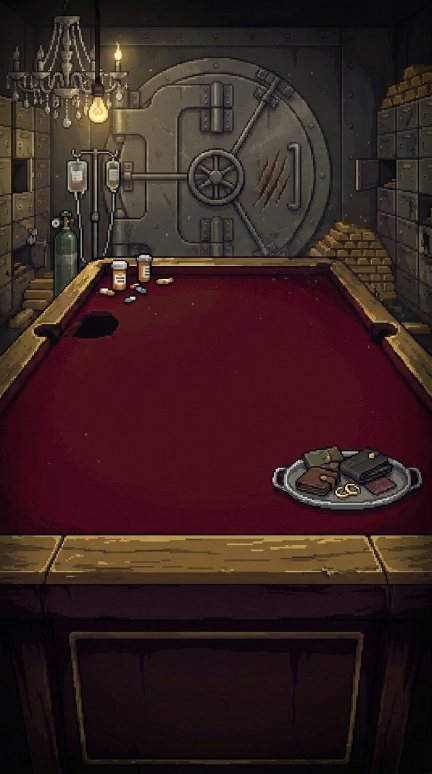
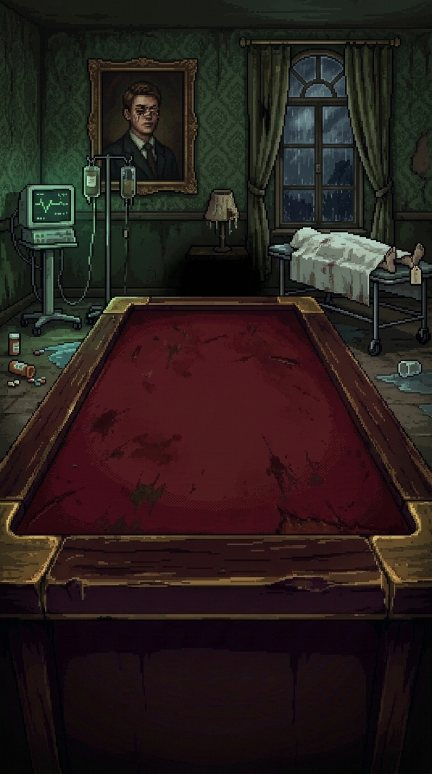
Dirty Deal: new Debt Cellar and Private Ward arenas, bigger rat
Claude-Session: https://claude.ai/code/session_01KMoF4bVcjiTSZnB8k8vwUa

diff --git a/dirtydeal/index.html b/dirtydeal/index.html
@@ -84,6 +84,15 @@ button{font-family:var(--display);cursor:pointer;background:none;border:0;paddin
 .lamp img{width:100%;height:100%;object-fit:contain;object-position:50% 0;image-rendering:pixelated;display:block}
 .lamp i{position:absolute;left:50%;top:80%;width:520%;aspect-ratio:1;translate:-50% -50%;background:radial-gradient(circle,rgba(255,220,140,.5),rgba(255,190,100,.14) 30%,transparent 62%);mix-blend-mode:screen;animation:bulb 5.3s infinite steps(1)}
 @keyframes lampsw{from{rotate:-7deg}to{rotate:6deg}}
+.tube{width:42%;height:7%;translate:-50% -50%;background:radial-gradient(ellipse,rgba(220,255,235,.6),rgba(180,240,210,.2) 40%,transparent 70%);mix-blend-mode:screen;animation:tube 4.3s infinite steps(1)}
+@keyframes tube{0%{opacity:1}12%{opacity:.4}13%{opacity:1}41%{opacity:.15}42%{opacity:.9}43%{opacity:.1}45%{opacity:1}77%{opacity:.6}78%{opacity:1}}
+.shade{width:14%;height:20%;translate:-50% -50%;background:radial-gradient(ellipse,rgba(0,0,0,.75),transparent 65%);animation:shade 7s ease-in-out infinite}
+@keyframes shade{0%,100%{transform:translate(0,0);opacity:.4}30%{transform:translate(-8%,4%);opacity:.9}60%{transform:translate(6%,-3%);opacity:.6}}
+.ecg{width:10.6%;height:3.2%;overflow:hidden;background:rgba(0,40,10,.35)}
+.ecg svg{width:200%;height:100%;display:block;animation:ecg 1.6s linear infinite;filter:drop-shadow(0 0 2px #7dff9a)}
+@keyframes ecg{from{transform:translateX(0)}to{transform:translateX(-50%)}}
+.winrain{width:20%;height:17.8%;opacity:.45;background:repeating-linear-gradient(100deg,transparent 0 7px,rgba(190,210,235,.4) 7px 8px,transparent 8px 19px);background-size:100% 40px;animation:rain .4s linear infinite}
+.winflash{width:20%;height:17.8%;background:rgba(220,230,255,.85);mix-blend-mode:screen;opacity:0;animation:bolt 11s infinite steps(1)}
 .eyes{width:1.8%;height:.5%;display:flex;justify-content:space-between;animation:eyes 7s infinite steps(1)}
 .eyes::before,.eyes::after{content:"";width:28%;height:100%;background:#ff3020;box-shadow:0 0 4px 1px rgba(255,40,20,.8)}
 @keyframes eyes{0%{opacity:1}31%{opacity:0}33%{opacity:1}60%{opacity:1}61%{opacity:0}80%{opacity:0}81%{opacity:1}}
@@ -133,9 +142,9 @@ button{font-family:var(--display);cursor:pointer;background:none;border:0;paddin
 .r0.c0{left:var(--r0a)}.r0.c1{left:var(--r0b)}.r0.c2{left:var(--r0c)}
 .stage:not(.a1) .smoke{display:none}
 #rain,#bolt{position:absolute;inset:0;pointer-events:none;display:none}
-.a3 #rain{display:block;z-index:3;opacity:.5;background:repeating-linear-gradient(105deg,transparent 0 9px,rgba(190,210,235,.35) 9px 10px,transparent 10px 23px);background-size:100% 46px;animation:rain .35s linear infinite}
+.a3 #rain{display:none;z-index:3;opacity:.5;background:repeating-linear-gradient(105deg,transparent 0 9px,rgba(190,210,235,.35) 9px 10px,transparent 10px 23px);background-size:100% 46px;animation:rain .35s linear infinite}
 @keyframes rain{to{background-position:-12px 46px}}
-.a3 #bolt{display:block;z-index:4;background:rgba(220,230,255,.9);mix-blend-mode:screen;opacity:0;animation:bolt 9s infinite steps(1)}
+.a3 #bolt{display:block;z-index:4;background:rgba(200,255,225,.55);mix-blend-mode:screen;opacity:0;animation:bolt 9s infinite steps(1)}
 @keyframes bolt{0%{opacity:0}61%{opacity:.55}62%{opacity:0}63%{opacity:.35}64%{opacity:0}}
 #bolt.now{animation:boltnow .5s steps(1)}
 @keyframes boltnow{0%{opacity:.9}20%{opacity:0}40%{opacity:.7}60%{opacity:0}}
@@ -606,8 +615,8 @@ $('edit').onclick=()=>{$('endScreen').hidden=true;openMenu(2)};
 const ARENAS=[
  {t:0,n:'THE BACK ROOM',who:'The Dealer',pre:'dealer',bg:'table.jpg',tw:'',g:{tilt:38,shift:0,r1w:18,r1t:35,r1:[20.8,41,61.2],r0w:21.5,r0t:47.5,r0:[13.9,39.25,64.6],dt:12.6,dh:23.8,gl:[22.1,13.8]}},
  {t:100,n:'THE DRAIN',who:'The Croc',pre:'d2_',bg:'table2.jpg',tw:'Poison lasts 1 turn longer down here.',g:{tilt:38,shift:0,r1w:18,r1t:35,r1:[20.8,41,61.2],r0w:21.5,r0t:47.5,r0:[13.9,39.25,64.6],dt:12.4,dh:23.8,gl:[14,24]}},
- {t:250,n:'THE ROOFTOP',who:'The Collector',pre:'d3_',bg:'table3.jpg',tw:'Lightning may strike a random card for 3.',g:{tilt:52,shift:-4.8,r1w:15.5,r1t:42.37,r1:[25.58,42.81,60.03],r0w:19,r0t:50.08,r0:[19.72,41.56,63.41],dt:25.8,dh:18.4,gl:[15,16.3]}},
- {t:500,n:'THE VAULT',who:'The Owner',pre:'d4_',bg:'table4.jpg',tw:"The Owner's cards start with +1 shield.",g:{tilt:38,shift:0,r1w:18,r1t:35.23,r1:[21,41.77,62.54],r0w:21.5,r0t:47.78,r0:[13.23,39.61,65.98],dt:14.4,dh:21.2,gl:[22.8,14.2]}}];
+ {t:250,n:'THE DEBT CELLAR',who:'The Collector',pre:'d3_',bg:'table3.jpg',tw:'The light shorts out: a random card may take 3.',g:{tilt:38,shift:0,r1w:18,r1t:35,r1:[20.8,41,61.2],r0w:21.5,r0t:47.5,r0:[13.9,39.25,64.6],dt:11.6,dh:24.6,gl:[50,8]}},
+ {t:500,n:'THE PRIVATE WARD',who:'The Owner',pre:'d4_',bg:'table4.jpg',tw:"The Owner's cards start with +1 shield.",g:{tilt:44,shift:0,r1w:14,r1t:39.4,r1:[27.9,43,58.1],r0w:18,r0t:50.2,r0:[21.2,41,60.8],dt:20,dh:22,gl:[51,24]}}];
 let TILT=38;
 function applyArena(k){
   const A=ARENAS[k],g=A.g,st=$('stage');
@@ -931,9 +940,9 @@ const AMB=(()=>{
     k.push({left:(dir>0?108:-12)+'%',top:y1+'%'});
     e.animate(k,{duration:dur,easing:'linear'}).finished.then(()=>e.remove()).catch(()=>e.remove())}
   async function ratRun(){
-    const dir=Math.random()<.5?1:-1,e=el('spr',dir>0?-14:104,59.6);e.style.width='12%';e.style.position='absolute';e.style.zIndex=2;e.style.pointerEvents='none';$('stage').appendChild(e);e.style.aspectRatio='1';e.style.backgroundImage='url(assets/a_rat.png)';e.style.setProperty('--fd','.2s');
+    const dir=Math.random()<.5?1:-1,e=el('spr',dir>0?-18:104,57.2);e.style.width='17%';e.style.position='absolute';e.style.zIndex=2;e.style.pointerEvents='none';$('stage').appendChild(e);e.style.aspectRatio='1';e.style.backgroundImage='url(assets/a_rat.png)';e.style.setProperty('--fd','.2s');
     if(dir<0)e.style.transform='scaleX(-1)';
-    const X=v=>dir>0?v:90-v;let x=-14;
+    const X=v=>dir>0?v:86-v;let x=-18;
     const dash=(to,ms)=>{const a=e.animate([{left:X(x)+'%'},{left:X(to)+'%'}],{duration:ms,easing:'cubic-bezier(.3,0,.6,1)',fill:'forwards'});x=to;e.style.animationPlayState='running';return a.finished};
     const freeze=async ms=>{e.style.animationPlayState='paused';const t0=performance.now();
       while(performance.now()-t0<ms){e.style.backgroundPosition=Math.random()<.5?'33.333% 0':'0 0';e.style.rotate=(Math.random()-.5)*4+'deg';await new Promise(r=>setTimeout(r,90+Math.random()*80))}e.style.rotate='0deg'};
@@ -952,13 +961,15 @@ const AMB=(()=>{
       const src=[[38,10,30.5],[63,10,30],[93,14,37.5],[3,20,36]];
       every(1600,()=>{const s=src[Math.floor(Math.random()*src.length)];drip(s[0],s[1],s[2],true)},1600);
       every(3200,()=>ripple(Math.random()<.5?4+Math.random()*10:86+Math.random()*10,33.5+Math.random()*4,true),2600)}
-    if(k===2){el('neonA',82.6,9.6);
-      const pud=[[10,60],[54,50.5],[80,47],[93,63],[30,92],[72,90]];
-      every(140,()=>{const p=pud[Math.floor(Math.random()*pud.length)];splash(p[0]+(Math.random()-.5)*6,p[1]+(Math.random()-.5)*2)},120);
-      every(11000,()=>runner('a_paper',10,36+Math.random()*6,30+Math.random()*12,4200,'.5s',-1,true),8000)}
-    if(k===3){el('candle',27.5,6);el('candle',13.5,9).style.animationDelay='-.8s';
+    if(k===2){el('tube',50,6.2);flies(50,7.5,2,22);
+      const cg=[[6,33],[94,32]];cg.forEach((c,n)=>{const e=el('shade',c[0],c[1]);e.style.animationDelay=(-n*2.3)+'s'});
+      every(5200,()=>{const f=$('flick');f.animate([{opacity:0},{opacity:.9},{opacity:.1},{opacity:.95},{opacity:0}],{duration:520,easing:'steps(5)'})},6000);
+      every(1900,()=>drip(37+Math.random()*30,8,30+Math.random()*4,false),1800)}
+    if(k===3){el('ecg',5.6,24.6,'<svg viewBox="0 0 100 30" preserveAspectRatio="none"><polyline points="0,18 18,18 24,18 28,6 32,27 36,18 52,18 58,15 62,18 100,18" fill="none" stroke="#7dff9a" stroke-width="2.4"/></svg>');
+      el('winrain',64,8.8);el('winflash',64,8.8);
+      el('candle',51,23.6).style.width='9%';
       every(260,mote,200);
-      every(1700,()=>{drip(16.2,25.2,30,false);setTimeout(()=>drip(24.8,25.6,30.5,false),600)},500);
+      every(1700,()=>{drip(20.6,24.8,28.5,false);setTimeout(()=>drip(29,26.4,30,false),600)},500);
       every(9000,()=>{const d=$('dealer');d.animate([{translate:'0 0'},{translate:'-1px 1px'},{translate:'1px 0'},{translate:'-1px 1px'},{translate:'0 0'}],{duration:500,iterations:2})},6000)}
   }
   return{set,_run:runner,_rat:ratRun};
@@ -1170,7 +1181,7 @@ async function battle(){
   render();
   if(S.arena===2&&Math.random()<.5){const occ=[];for(const s of[0,1])for(let i=0;i<3;i++)if(S.board[s][i])occ.push([s,i]);
     if(occ.length){const[s,i]=occ[rnd(occ.length)],c=S.board[s][i];const b=$('bolt');b.classList.remove('now');void b.offsetWidth;b.classList.add('now');
-      c.hp-=3;render();fx(cardOf(s,i),'hit');float(slotEl(s,i),'ZAP -3','#cfe0ff');vfx(slotEl(s,i),'spark');log('LIGHTNING STRIKES!');await sleep(700);await cleanup()}}
+      c.hp-=3;render();fx(cardOf(s,i),'hit');float(slotEl(s,i),'ZAP -3','#cfe0ff');vfx(slotEl(s,i),'spark');log('THE LIGHT SHORTS OUT!');await sleep(700);await cleanup()}}
   for(let t=1;t<=3;t++){
     log(`FIGHT · TURN ${t}`);await sleep(350);
     const acted=await turn();

diff --git a/dirtydeal/sw.js b/dirtydeal/sw.js
@@ -1,5 +1,5 @@
 /* Dirty Deal offline cache. A new upload changes VERSION, so phones fetch the new build. */
-const VERSION='dd-18e783599d';
+const VERSION='dd-48f9495715';
 const FILES=["./", "assets/a_paper.png", "assets/a_rat.png", "assets/alley.jpg", "assets/back.png", "assets/c_bellhop.png", "assets/c_blackhole.png", "assets/c_clown.png", "assets/c_coinflip.png", "assets/c_dice.png", "assets/c_fingers.png", "assets/c_gator.png", "assets/c_golem.png", "assets/c_grandma.png", "assets/c_gremlin.png", "assets/c_jukebox.png", "assets/c_karaoke.png", "assets/c_lastcall.png", "assets/c_leech.png", "assets/c_mafioso.png", "assets/c_mannequin.png", "assets/c_pigeon.png", "assets/c_rabbit.png", "assets/c_rat.png", "assets/c_ratking.png", "assets/c_roach.png", "assets/c_sandwich.png", "assets/c_smell.png", "assets/c_toilet.png", "assets/c_vending.png", "assets/case0.png", "assets/case0o.png", "assets/case1.png", "assets/case1o.png", "assets/case2.png", "assets/case2o.png", "assets/case3.png", "assets/case3o.png", "assets/chip_b.png", "assets/chip_g.png", "assets/chip_k.png", "assets/chip_r.png", "assets/chips.png", "assets/coins.png", "assets/d2_0.png", "assets/d2_1.png", "assets/d2_2.png", "assets/d2_3.png", "assets/d3_0.png", "assets/d3_1.png", "assets/d3_2.png", "assets/d3_3.png", "assets/d4_0.png", "assets/d4_1.png", "assets/d4_2.png", "assets/d4_3.png", "assets/dealer0.png", "assets/dealer1.png", "assets/dealer2.png", "assets/dealer3.png", "assets/deckbg.jpg", "assets/f_common.png", "assets/f_legend.png", "assets/f_spell.png", "assets/f_token.png", "assets/hand.png", "assets/i_events.png", "assets/i_friends.png", "assets/i_gang.png", "assets/i_road.png", "assets/i_rules.png", "assets/i_settings.png", "assets/icon.jpg", "assets/lamp2.png", "assets/logo.png", "assets/lose.jpg", "assets/m_a1.mp3", "assets/m_a2.mp3", "assets/m_a3.mp3", "assets/m_a4.mp3", "assets/m_btn_battle.png", "assets/m_btn_battle_d.png", "assets/m_btn_upgrade.png", "assets/m_h_battle.png", "assets/m_h_cards.png", "assets/m_h_shop.png", "assets/m_i_chips.png", "assets/m_i_clock.png", "assets/m_i_dot.png", "assets/m_i_level.png", "assets/m_i_trophy.png", "assets/m_i_wings.png", "assets/m_i_x.png", "assets/m_menu.mp3", "assets/m_n_battle.png", "assets/m_n_battle2.png", "assets/m_n_cards.png", "assets/m_n_shop.png", "assets/m_navbar.png", "assets/m_panel.png", "assets/m_topbar.png", "assets/m_win.mp3", "assets/pointer.png", "assets/r_rim.png", "assets/r_roach.png", "assets/r_table.jpg", "assets/r_tur.png", "assets/shop.jpg", "assets/table.jpg", "assets/table2.jpg", "assets/table3.jpg", "assets/table4.jpg", "assets/u_armor.png", "assets/u_badge.png", "assets/u_bar_e.png", "assets/u_bar_g.png", "assets/u_bar_r.png", "assets/u_coin.png", "assets/u_fight.png", "assets/u_fight_d.png", "assets/u_fist.png", "assets/u_gum.png", "assets/u_lock.png", "assets/u_ring.png", "assets/u_shield.png", "assets/u_sit.png", "assets/u_sit_d.png", "assets/u_skull.png", "assets/v_boom.png", "assets/v_coins.png", "assets/v_dust.png", "assets/v_gum.png", "assets/v_hole.png", "assets/v_honk.png", "assets/v_poison.png", "assets/v_shatter.png", "assets/v_spark.png", "assets/wheel.png", "assets/win.jpg", "fonts/silkscreen-latin-400-normal.woff2", "fonts/silkscreen-latin-700-normal.woff2", "fonts/vt323-latin-400-normal.woff2", "icons/icon-180.png", "icons/icon-192.png", "icons/icon-512.png", "index.html", "manifest.webmanifest"];
 self.addEventListener('install',e=>{e.waitUntil(caches.open(VERSION).then(c=>c.addAll(FILES)).then(()=>self.skipWaiting()))});
 self.addEventListener('activate',e=>{e.waitUntil(caches.keys().then(k=>Promise.all(k.filter(x=>x!==VERSION).map(x=>caches.delete(x)))).then(()=>self.clients.claim()))});
